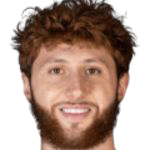
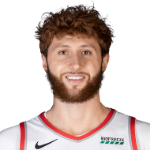
Fixed the proportions on the old jpg pictures that were cropped incorrectly

diff --git a/data_processing/scripts/get_new_images.py b/data_processing/scripts/get_new_images.py
@@ -1,0 +1,20 @@
+import requests
+import csv
+import unidecode
+import shutil
+
+with open('../data/players.csv', 'r', encoding='utf-8-sig') as f:
+    players = [x for x in csv.DictReader(f)]
+    new_photo_players = [x for x in players if 'jpg' in x['internal_image_link']]
+
+for player in new_photo_players:
+    formatted_player_name = unidecode.unidecode(player['player'].replace(' ', '-').replace('\'','').replace('.',''))
+    image_url = f"https://www.2kratings.com/wp-content/uploads/{formatted_player_name}-2K-Rating.png"
+
+    r = requests.get(image_url, stream=True)
+    if r.status_code == 200:
+        with open(f"../data/new_images/{player['player_id']}.png", 'wb') as f:
+            r.raw.decode_content = True
+            shutil.copyfileobj(r.raw, f) 
+
+# print(len(new_photo_players))

diff --git a/data_processing/scripts/get_players.py b/data_processing/scripts/get_players.py
@@ -2,6 +2,7 @@ import csv
 import shutil
 import requests
 from bs4 import BeautifulSoup
+import unidecode
 
 
 def process_player_row(row):
@@ -52,7 +53,7 @@ for row in rows:
 for player_id, player in player_dict.items():
     print(player_id)
     # image_url = f"https://www.basketball-reference.com/req/202101021/images/players/{player_id}.jpg"
-    formtted_player_name = player['player'].replace(' ', '-').replace('\'','')
+    formtted_player_name = unidecode.unidecode(player['player'].replace(' ', '-').replace('\'','').replace('.',''))
     image_url = f"https://www.2kratings.com/wp-content/uploads/{formtted_player_name}-2K-Rating.png"
 
     r = requests.get(image_url, stream=True)
